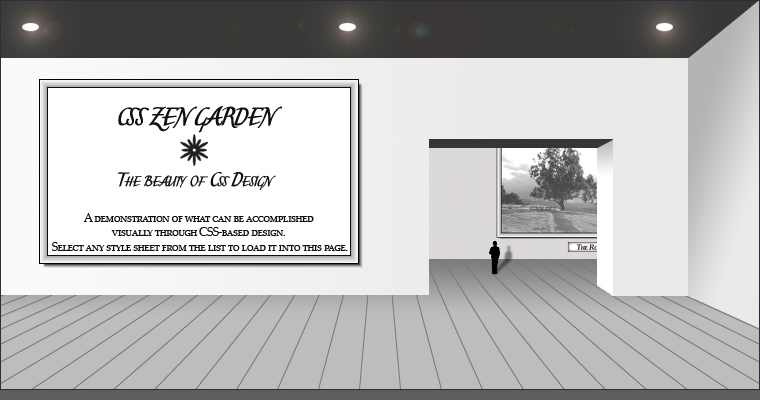
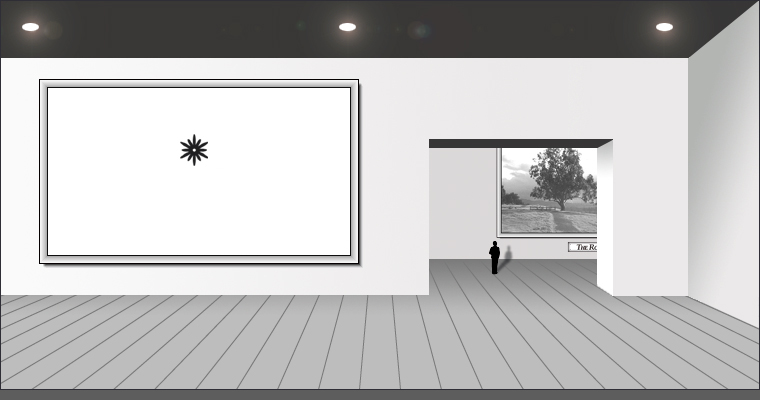
fix header image hides contents issue

Changed region(s): [[0.0605, 0.54, 0.4539, 0.63], [0.1513, 0.42, 0.3632, 0.48], [0.1513, 0.27, 0.3632, 0.33]]

diff --git a/templates/museum-cover.html b/templates/museum-cover.html
@@ -4,7 +4,7 @@
 	<meta charset="utf-8" />
 	<build type="InjectHtmlElement" tag="head" />
 
-	<link rel="stylesheet" media="screen" href="style/museum/cover.css"></link>
+	<link rel="stylesheet" media="screen" href="style/museum/style.css"></link>
 	<link rel="alternate" type="application/rss+xml" title="RSS" href="http://www.csszengarden.com/zengarden.xml"></link>
 
 	<meta name="viewport" content="width=device-width, initial-scale=1.0" />
@@ -52,7 +52,7 @@
 <div class="page-wrapper">
 	<section class="intro" id="zen-intro">
 		<header role="banner">
-			<h1><build type="InjectHtmlElement" tag="content" name="banner-title" /></h1>
+			<h1><span><build type="InjectHtmlElement" tag="content" name="banner-title" /></span></h1>
 			<h2><build type="InjectHtmlElement" tag="content" name="banner-sub-title" /></h2>
 		</header>
 

diff --git a/docs/index.html b/docs/index.html
@@ -4,8 +4,8 @@
         <title>Angela's Pickup</title>
     </head>
 
-    <content name="banner-title">AWW Cherubic Garden</content> <!-- this header is replaced by picture, will change it later -->
-    <content name="banner-sub-title">The Beauty of <abbr title="Cascading Style Sheets">CSS</abbr> Design</content> <!-- this header is replaced by picture, will change it later -->
+    <content name="banner-title">AWW's Garden</content>
+    <content name="banner-sub-title">The Beauty of collections</content>
 
     <content name="summary">
             <p>A demonstration of what can be accomplished through <abbr title="Cascading Style Sheets">CSS</abbr>-based design. Select any style sheet from the list to load it into this page.</p>

diff --git a/docs/style/museum/style.css b/docs/style/museum/style.css
@@ -123,15 +123,34 @@ header {
 	height: 400px;
 	}
 
+header h1 {
+	margin: 0px 410px 0px 50px;
+	padding-top: 100px;
+	text-align: center;
+	white-space: nowrap;
+}
+
+header h2 {
+	margin: 30px 410px 0px 50px;
+	text-align: center;
+	white-space: nowrap;
+}
+
+/*
 header h1, 
 header h2 {
 	display: none;
 	}
+*/
 
 /* --- quickSummary --- */	
 
 .summary p:first-child {
-	display: none;
+	position: absolute;
+	top: 190px;
+	left: 50px;	
+	width: 300px;
+	text-align: center;
 	}
 
 .summary p:last-child {
